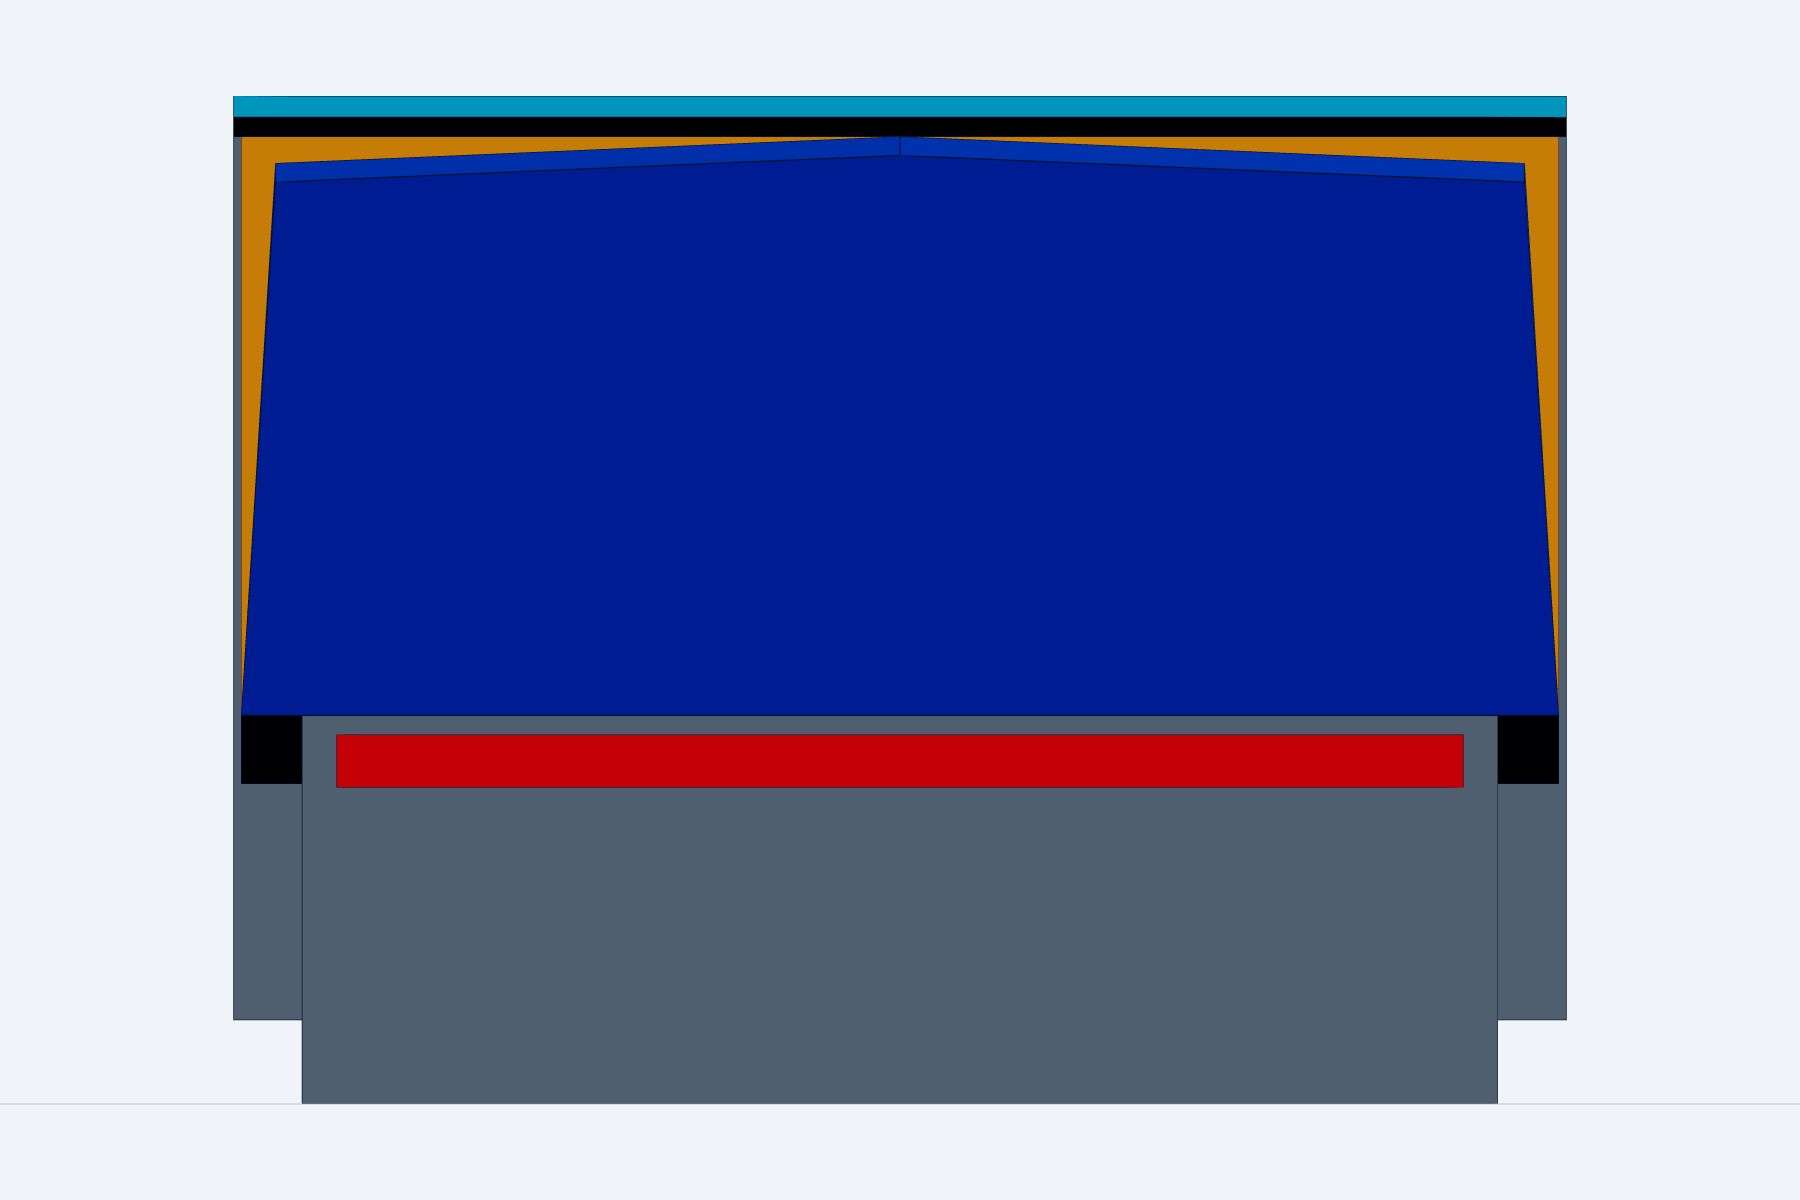
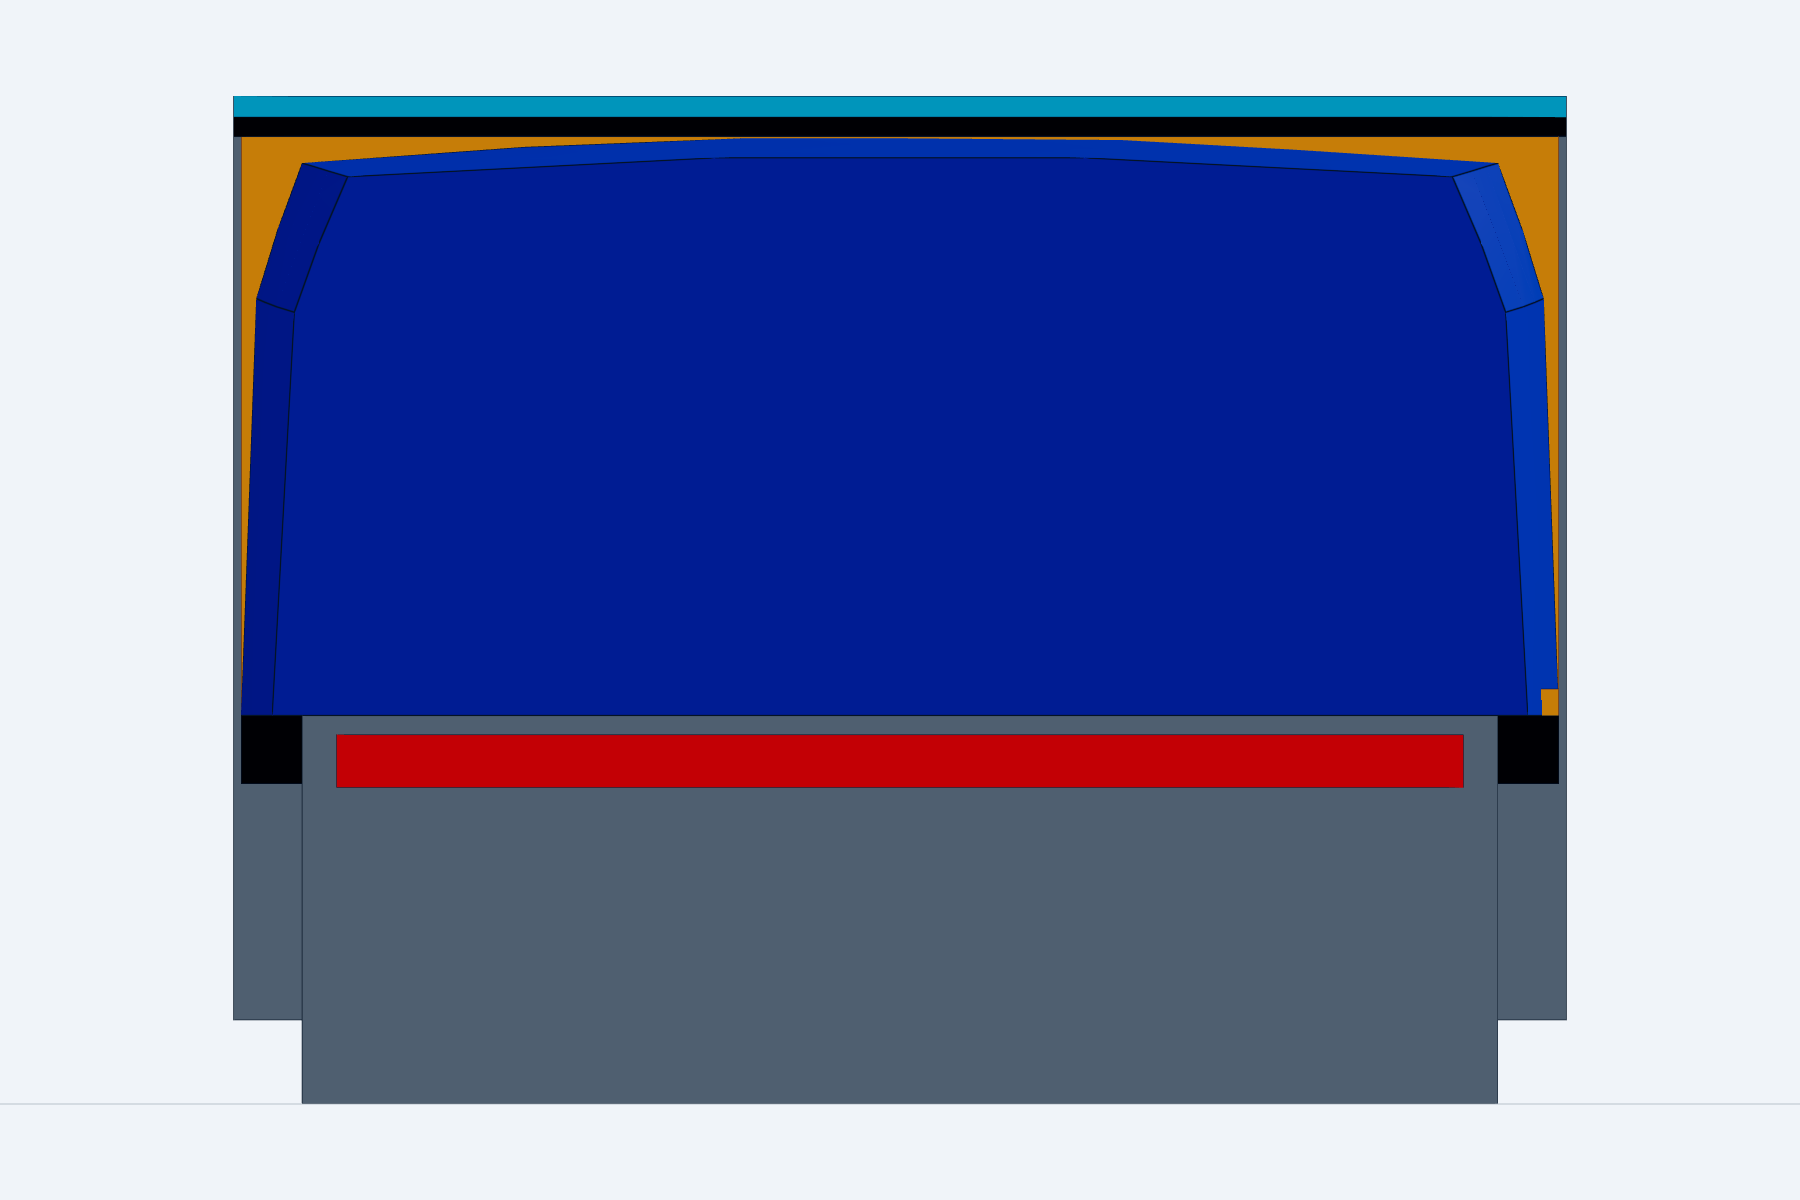
cad: add editable R1T silhouette surrogate

Changed region(s): [[0.56, 0.0925, 0.8711, 0.6167], [0.1244, 0.0925, 0.4356, 0.185], [0.1244, 0.2158, 0.1556, 0.5242]]

diff --git a/models/r1t_topper/cad/topper_envelope.py b/models/r1t_topper/cad/topper_envelope.py
@@ -1,16 +1,12 @@
-"""Phase 2 master topper envelope: concept volume, not fitment geometry."""
+"""Editable visual topper surrogate: concept volume, not fitment geometry."""
 
-from build123d import Color, Compound, Face, Wire, loft
+from build123d import Color, Compound, Edge, Face, Wire, loft
 from cadpy.assembly import AssemblyHelper
 
 from parameters import (
     cab_to_topper_nominal_gap,
-    roof_crown,
-    roof_side_taper,
-    topper_base_outer_width,
-    topper_front_height,
     topper_overall_length,
-    topper_rear_height,
+    topper_silhouette_stations,
     value,
 )
 
@@ -18,30 +14,69 @@ from parameters import (
 CONCEPT_BLUE = Color(0.10, 0.36, 0.72, 0.42)
 
 
-def _section(x: float, height: float) -> Face:
-    half_base = value(topper_base_outer_width) / 2.0
-    half_roof = half_base - value(roof_side_taper)
-    edge_z = height - value(roof_crown)
-    points = [
-        (x, -half_base, 0.0),
-        (x, half_base, 0.0),
-        (x, half_roof, edge_z),
-        (x, 0.0, height),
-        (x, -half_roof, edge_z),
+def _section(
+    x: float,
+    height: float,
+    base_width: float,
+    shoulder_width: float,
+    roof_width: float,
+    crown: float,
+) -> Face:
+    """Create one symmetric scan-replaceable YZ silhouette section."""
+    half_base = base_width / 2.0
+    half_shoulder = shoulder_width / 2.0
+    half_roof = roof_width / 2.0
+    shoulder_z = height * 0.72
+    roof_edge_z = height - crown
+
+    left_base = (x, -half_base, 0.0)
+    right_base = (x, half_base, 0.0)
+    right_shoulder = (x, half_shoulder, shoulder_z)
+    right_roof = (x, half_roof, roof_edge_z)
+    left_roof = (x, -half_roof, roof_edge_z)
+    left_shoulder = (x, -half_shoulder, shoulder_z)
+
+    edges = [
+        Edge.make_line(left_base, right_base),
+        Edge.make_line(right_base, right_shoulder),
+        Edge.make_three_point_arc(
+            right_shoulder,
+            (x, (half_shoulder + half_roof) / 2.0, (shoulder_z + roof_edge_z) / 2.0 + 8.0),
+            right_roof,
+        ),
+        Edge.make_three_point_arc(
+            right_roof,
+            (x, 0.0, height),
+            left_roof,
+        ),
+        Edge.make_three_point_arc(
+            left_roof,
+            (x, -(half_shoulder + half_roof) / 2.0, (shoulder_z + roof_edge_z) / 2.0 + 8.0),
+            left_shoulder,
+        ),
+        Edge.make_line(left_shoulder, left_base),
     ]
-    return Face.make_surface(Wire.make_polygon(points, close=True))
+    return Face.make_surface(Wire(edges))
 
 
 def make_master_topper_envelope():
     """Return the provisional external design volume used for silhouette review."""
     x_front = value(cab_to_topper_nominal_gap)
-    x_rear = x_front + value(topper_overall_length)
+    sections = [
+        _section(
+            x_front + fraction * value(topper_overall_length),
+            height,
+            base_width,
+            shoulder_width,
+            roof_width,
+            crown,
+        )
+        for fraction, height, base_width, shoulder_width, roof_width, crown
+        in value(topper_silhouette_stations)
+    ]
     envelope = loft(
-        [
-            _section(x_front, value(topper_front_height)),
-            _section(x_rear, value(topper_rear_height)),
-        ],
-        ruled=True,
+        sections,
+        ruled=False,
     )
     envelope.label = "TOPPER_MASTER_ENVELOPE_CONCEPT_ONLY"
     envelope.color = CONCEPT_BLUE

diff --git a/models/r1t_topper/cad/phase2_checks.py b/models/r1t_topper/cad/phase2_checks.py
@@ -18,7 +18,10 @@ from parameters import (
     topper_base_outer_width,
     topper_front_height,
     topper_overall_length,
+    topper_rear_height,
     topper_rear_clearance,
+    topper_silhouette_stations,
+    roof_crown,
     value,
 )
 from topper_envelope import make_master_topper_envelope
@@ -29,6 +32,19 @@ def _close(actual: float, expected: float) -> None:
 
 
 def run() -> None:
+    stations = value(topper_silhouette_stations)
+    assert len(stations) == 5
+    assert stations[0][0] == 0.0
+    assert stations[-1][0] == 1.0
+    assert all(a[0] < b[0] for a, b in zip(stations, stations[1:]))
+    assert all(a[1] >= b[1] for a, b in zip(stations, stations[1:]))
+    assert all(a[2] >= b[2] for a, b in zip(stations, stations[1:]))
+    assert topper_silhouette_stations.provenance == "ESTIMATED"
+    _close(stations[0][1], value(topper_front_height))
+    _close(stations[-1][1], value(topper_rear_height))
+    _close(stations[0][2], value(topper_base_outer_width))
+    _close(stations[0][5], value(roof_crown))
+
     bounds = make_master_topper_envelope().bounding_box()
     _close(bounds.min.X, value(cab_to_topper_nominal_gap))
     _close(bounds.max.X, value(bed_inside_length) - value(topper_rear_clearance))

diff --git a/models/r1t_topper/cad/parameters.py b/models/r1t_topper/cad/parameters.py
@@ -178,7 +178,20 @@ topper_rear_height = Parameter(
     735.0, "mm", DESIGN_DECISION, "provisional gentle rearward fall"
 )
 roof_crown = Parameter(35.0, "mm", DESIGN_DECISION, "provisional drainage crown")
-roof_side_taper = Parameter(45.0, "mm per side", DESIGN_DECISION, "provisional")
+topper_silhouette_stations = Parameter(
+    (
+        # x fraction, height, base width, shoulder width, roof width, crown
+        (0.00, 760.0, 1730.0, 1690.0, 1570.0, 35.0),
+        (0.22, 758.0, 1724.0, 1682.0, 1558.0, 34.0),
+        (0.52, 751.0, 1708.0, 1660.0, 1530.0, 32.0),
+        (0.78, 743.0, 1680.0, 1628.0, 1490.0, 30.0),
+        (1.00, 735.0, 1648.0, 1590.0, 1450.0, 28.0),
+    ),
+    "(length fraction, mm height, mm widths, mm crown)",
+    ESTIMATED,
+    "visual approximation from Rivian owner-guide imagery and a CC-BY 2022 R1T artist mesh preview",
+    "replace station dimensions from common-coordinate scan slices before fitment work",
+)
 rear_hatch_opening_width = Parameter(1450.0, "mm", DESIGN_DECISION, "provisional")
 rear_hatch_opening_height = Parameter(620.0, "mm", DESIGN_DECISION, "provisional")
 rear_hatch_angle = Parameter(4.0, "deg", DESIGN_DECISION, "provisional")

diff --git a/models/r1t_topper/reports/VALIDATION_REPORT.md b/models/r1t_topper/reports/VALIDATION_REPORT.md
@@ -15,6 +15,8 @@ Status: **PASS for conceptual envelope review only**
   - each crossbar envelope is `70 × 1750 × 28 mm` and is more than twenty times
     longer in Y than X.
 - `cad/phase2_checks.py` verifies:
+  - five ordered silhouette sections taper monotonically in height and base
+    width from front to rear and remain tagged `ESTIMATED`;
   - the master envelope spans `X=20..1357 mm`, leaving the intentional
     conceptual `20 mm` front and rear clearances within the `1377 mm`
     manufacturer-reference bed length;
@@ -23,14 +25,15 @@ Status: **PASS for conceptual envelope review only**
     `PLACEHOLDER REQUIRING SCAN`.
 - STEP generation passed for `R1T_TOPPER_ASSEMBLY.step`.
 - CAD inspection reported a labeled assembly with 22 leaf occurrences / shapes,
-  133 faces, 267 edges, and overall bounds:
+  134 faces, 270 edges, no warnings, and overall bounds:
   - minimum `[-685, -875, -510] mm`
   - maximum `[1462, 875, 813] mm`
 - Stable occurrence references were confirmed for the bed, cab, tailgate,
   cab/topper keep-out, anchors, four crossbars, and coordinate artifact.
 - Six regenerated snapshots were visually reviewed. The master envelope is one
-  coherent blue concept volume; the cyan rail/crossbar references remain
-  visibly distinct placeholders.
+  coherent blue concept volume with rounded crown/shoulders and a modest
+  rearward width/height taper; the cyan rail/crossbar references remain visibly
+  distinct placeholders.
 
 ## Intent review
 
@@ -42,6 +45,7 @@ Status: **PASS for conceptual envelope review only**
 | Crossbar reference elevations are consistent | PASS |
 | All crossbars are transverse, left-to-right along Y | PASS |
 | Concept volume occupies the intended bed-length envelope | PASS |
+| Estimated silhouette is symmetric and visually tapered | PASS |
 | Concept volume remains visibly distinct from scan-required references | PASS |
 | Production cab-roof continuation and curvature | NOT TESTED — scan required |
 

diff --git a/models/r1t_topper/references/visual_reference_sources.md b/models/r1t_topper/references/visual_reference_sources.md
@@ -1,0 +1,18 @@
+# Visual silhouette references
+
+These sources inform the editable Phase 2 silhouette station table. They do
+not establish mounting, clearance, or production body geometry.
+
+- Rivian, *R1T Owner's Guide, Model Year 2022–2024*, exterior and truck-bed
+  overview illustrations:
+  <https://assets.rivian.com/2md5qhoeajym/530xs9hu11xOKefT2JrvA5/46f6cb5d5756b8320d3eb494a902e66c/r1t-og-en-us-20240527.pdf>
+- Rivian model comparison, used for published overall and cargo-bed dimensions:
+  <https://rivian.com/en-CA/compare>
+- “Rivian R1T 2022 [Free!]” by 3dblender_1, Sketchfab model
+  `89ec895feb8145768f93382f356affb5`, 308,001 triangles, licensed CC BY 4.0:
+  <https://sketchfab.com/3d-models/rivian-r1t-2022-free-89ec895feb8145768f93382f356affb5>
+
+The Sketchfab asset is an artist mesh, not a scan or manufacturer CAD model.
+It is used only as a visual proportion cross-check and is not redistributed in
+this repository. A later vehicle scan should replace the numeric section rows
+in `cad/parameters.py` while preserving the loft and assembly workflow.

diff --git a/models/r1t_topper/reports/DESIGN_DECISIONS.md b/models/r1t_topper/reports/DESIGN_DECISIONS.md
@@ -14,8 +14,13 @@
   promoted to manufacturer references, while every topper-contacting interface
   remains provisional until the target truck is measured.
 - Phase 2 adds one translucent, closed master-envelope volume for silhouette
-  review. Its 20 mm front/rear clearances, rail-width match, roof crown, side
-  taper, and rearward fall are design decisions—not production fitment claims.
+  review. Its 20 mm front/rear clearances, rail-width match, roof crown,
+  profile taper, and rearward fall are design decisions—not production fitment
+  claims.
+- Five editable cross-sections now approximate the R1T/R1S visual language:
+  nearly vertical lower sides, eased shoulders, a shallow roof crown, and a
+  modest rearward width/height taper. Their dimensions are `ESTIMATED` visual
+  inputs designed to be replaced row-for-row by scan slices.
 - Detailed shell offsets, modules, hatch, seals, joints, hardpoints, controls,
   ports, anchors, and mounting geometry remain intentionally absent until scan
   data establishes the vehicle interfaces.

diff --git a/models/r1t_topper/README.md b/models/r1t_topper/README.md
@@ -55,6 +55,12 @@ topper solid is an external silhouette/design volume only; it is not a shell or
 mold surface. No hatch mechanism, module interface, structure, load rating,
 mounting geometry, seal, or tooling exists yet.
 
+The visual surrogate is driven by five editable cross-sections in
+`cad/parameters.py`. See `references/visual_reference_sources.md` for the
+official imagery and CC-BY artist mesh used only as proportion references.
+Replace those section rows with common-coordinate scan slices later; the loft,
+assembly, export, and validation workflow can remain unchanged.
+
 ## CAD Explorer / CAD Viewer
 
 Start CAD Viewer with the repository's `cad-viewer` skill and use the repository

diff --git a/models/r1t_topper/reports/OPEN_ITEMS.md b/models/r1t_topper/reports/OPEN_ITEMS.md
@@ -12,6 +12,9 @@
 - Replace the conceptual topper width, front height, crown, taper, and
   front/rear clearances only after the bed rails and cab trailing section are
   captured in one scan coordinate system.
+- Replace all five visual silhouette station rows with registered scan sections;
+  the present rows are intentionally editable estimates, not reverse-engineered
+  body surfaces.
 - Confirm tailgate and rear-light swept envelopes.
 - Confirm all bed-anchor, control-button, and factory-crossbar interfaces.
 - Determine the engineered cab/topper shadow-gap or aerodynamic bridge only
